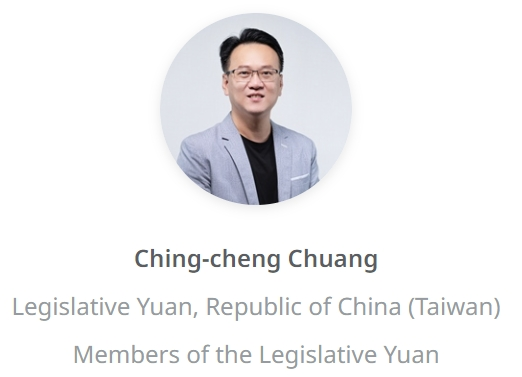
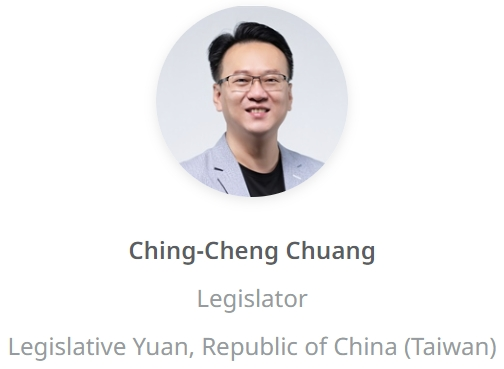
1118-1

diff --git a/indexEN.html b/indexEN.html
@@ -152,6 +152,11 @@
 				border-radius: 5px;
 			}
 
+			.lefticon {
+				width: 48px;
+				height: 50px;
+			}
+
 		}
 	</style>
 </head>
@@ -257,9 +262,10 @@
 
 								<span class="spker_name">Ching-cheng Chuang </span>
 								<br>
-								<span class="spker_title">Members of the Legislative Yuan</span>
+								<span class="spker_title">Legislator</span>
 								<br><br>
 								<span class="spker_contant">Legislative Yuan, Republic of China (Taiwan)</span>
+
 							</p>
 						</div>
 					</div>
@@ -370,7 +376,7 @@
 						<div class="boxes4" style="width: 70%">
 							<p style="margin:0px ;">
 
-								<span class="spker_name">Long-Sgeng Lu</span>
+								<span class="spker_name">Long-Sheng Lu</span>
 								<br>
 								<span class="spker_title">Director</span>
 								<br><br>
